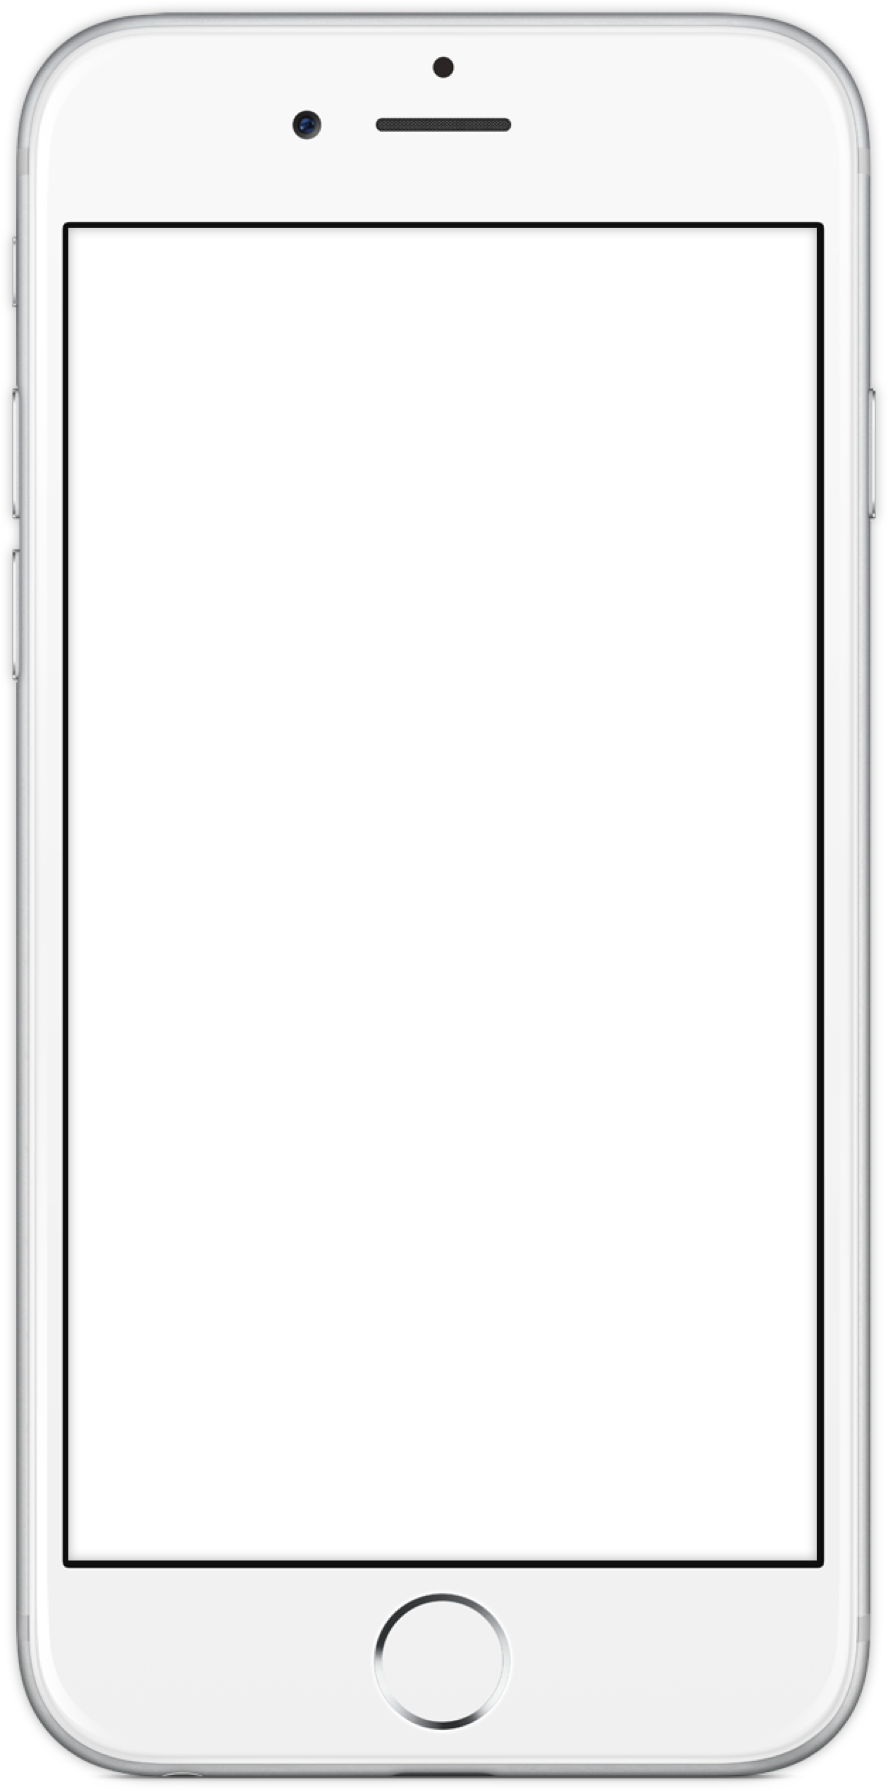
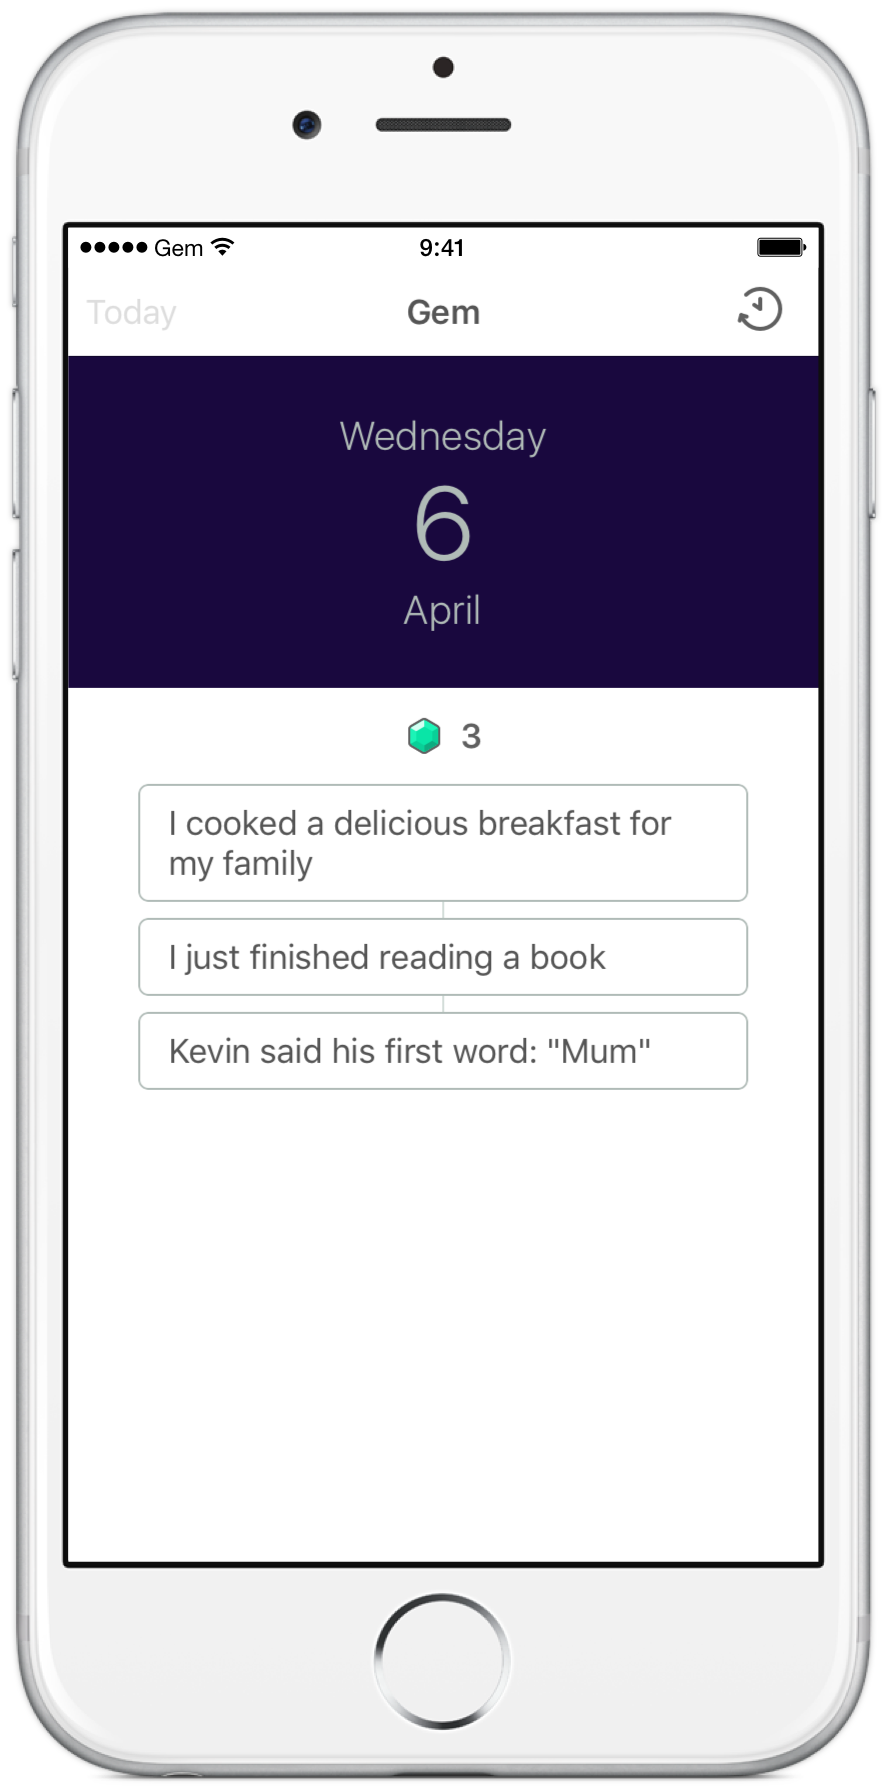
add screenshot

diff --git a/index.html b/index.html
@@ -41,7 +41,6 @@
 			</a>
 			<h1>Gem</h1>
 			<h2>Be grateful, be happier.<br />Save your precious moments.</h2>
-			<!-- <h2>Never forget amazing moments.<br />Engrave a Gem to remember them!</h2>-->
 		</header>
 
 
@@ -56,9 +55,10 @@
 
 			<div id="box_video">
 				<div id="video">
-					<video autoplay="autoplay">
+					<img src="img/screenshot.png" />
+					<!-- <video autoplay="autoplay">
 				  		<source src="img/add_gem.mp4" type="video/mp4" >
-					</video>
+					</video> -->
 				</div>
 			</div>
 

diff --git a/css/style.css b/css/style.css
@@ -306,7 +306,8 @@ section{
   background: url("../img/iphone.png") center;
   background-size: cover;
 }
-#video video{
+#video video,
+#video img{
   width: 84.459459459%;
 }
 #app-store-badge-container{
